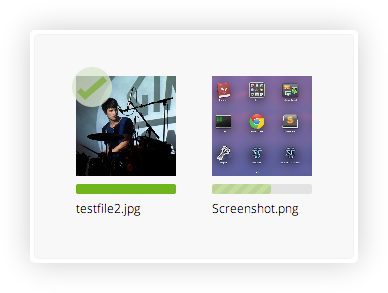
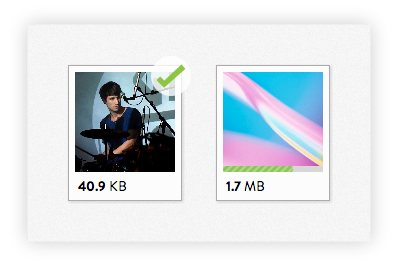
Fixed the way unsupported browsers are handled.

Changed region(s): [[0.5258, 0.2388, 0.8351, 0.7761], [0.1546, 0.209, 0.4639, 0.7761]]

diff --git a/js/build/build.js b/js/build/build.js
@@ -407,11 +407,10 @@ require.register("enyo-dropzone/lib/dropzone.js", function(exports, require, mod
   Em = typeof Emitter !== "undefined" && Emitter !== null ? Emitter : require("emitter");
 
   Dropzone = (function(_super) {
-    var defaultOptions;
 
     __extends(Dropzone, _super);
 
-    Dropzone.prototype.version = "1.3.0";
+    Dropzone.prototype.version = "1.3.2";
 
     /*
       This is a list of all available events you can register on a dropzone object.
@@ -426,7 +425,7 @@ require.register("enyo-dropzone/lib/dropzone.js", function(exports, require, mod
 
     Dropzone.prototype.blacklistedBrowsers = [/opera.*Macintosh.*version\/12/i];
 
-    defaultOptions = {
+    Dropzone.prototype.defaultOptions = {
       url: null,
       parallelUploads: 2,
       maxFilesize: 256,
@@ -499,10 +498,9 @@ require.register("enyo-dropzone/lib/dropzone.js", function(exports, require, mod
       previewTemplate: "<div class=\"preview file-preview\">\n  <div class=\"details\">\n   <div class=\"filename\"><span></span></div>\n  </div>\n  <div class=\"progress\"><span class=\"upload\"></span></div>\n  <div class=\"success-mark\"><span>✔</span></div>\n  <div class=\"error-mark\"><span>✘</span></div>\n  <div class=\"error-message\"><span></span></div>\n</div>"
     };
 
-    defaultOptions.previewTemplate = defaultOptions.previewTemplate.replace(/\n*/g, "");
-
     function Dropzone(element, options) {
       var elementId, elementOptions, extend, _ref;
+      this.defaultOptions.previewTemplate = this.defaultOptions.previewTemplate.replace(/\n*/g, "");
       this.element = o(element);
       if (this.element.length !== 1) {
         throw new Error("You can only instantiate dropzone on a single element.");
@@ -526,7 +524,7 @@ require.register("enyo-dropzone/lib/dropzone.js", function(exports, require, mod
         }
         return target;
       };
-      this.options = extend({}, defaultOptions, elementOptions, options != null ? options : {});
+      this.options = extend({}, this.defaultOptions, elementOptions, options != null ? options : {});
       if (this.options.url == null) {
         this.options.url = this.element.attr("action");
       }
@@ -11996,11 +11994,8 @@ var Dropzone = require("dropzone"),
 
 Dropzone.options.demoUpload = {
   fallback: function() {
-    this.element.addClass("browser-not-supported");
-    this.element.find(".message span").html("Your browser does not support drag'n'drop file uploads.");
-    this.element.append("<p>Sadly your dusty browser does not support nice drag'n'drop file uploads.<br />Please use the fallback form below to upload your files like in the olden days.</p>");
-    this.element.append(this.getFallbackForm());
-    this.element.append("<p>This is what your file upload should look like:<br /><img src=\"/images/preview.png\" alt=\"preview\" /></p>");
+    Dropzone.prototype.defaultOptions.fallback.call(this);
+    this.element.append("<p>This is what the file uploads with Dropzone look like in modern browsers:<br /><img src=\"/images/preview.png\" alt=\"preview\" /></p>");
   }
 };
 
@@ -12009,10 +12004,6 @@ o(function() {
   new Opentip("#opentip-demo", "Hi, I'm an Opentip", { style: "dark" });
 
   var dropzone = o("#demo-upload").data("dropzone");
-  dropzone.on("fallback", function() {
-    console.log("HI");
-    this.element.append("bla");
-  });
 });
 
 });

diff --git a/js/components/enyo-dropzone/lib/dropzone.js b/js/components/enyo-dropzone/lib/dropzone.js
@@ -38,11 +38,10 @@
   Em = typeof Emitter !== "undefined" && Emitter !== null ? Emitter : require("emitter");
 
   Dropzone = (function(_super) {
-    var defaultOptions;
 
     __extends(Dropzone, _super);
 
-    Dropzone.prototype.version = "1.3.0";
+    Dropzone.prototype.version = "1.3.2";
 
     /*
       This is a list of all available events you can register on a dropzone object.
@@ -57,7 +56,7 @@
 
     Dropzone.prototype.blacklistedBrowsers = [/opera.*Macintosh.*version\/12/i];
 
-    defaultOptions = {
+    Dropzone.prototype.defaultOptions = {
       url: null,
       parallelUploads: 2,
       maxFilesize: 256,
@@ -130,10 +129,9 @@
       previewTemplate: "<div class=\"preview file-preview\">\n  <div class=\"details\">\n   <div class=\"filename\"><span></span></div>\n  </div>\n  <div class=\"progress\"><span class=\"upload\"></span></div>\n  <div class=\"success-mark\"><span>✔</span></div>\n  <div class=\"error-mark\"><span>✘</span></div>\n  <div class=\"error-message\"><span></span></div>\n</div>"
     };
 
-    defaultOptions.previewTemplate = defaultOptions.previewTemplate.replace(/\n*/g, "");
-
     function Dropzone(element, options) {
       var elementId, elementOptions, extend, _ref;
+      this.defaultOptions.previewTemplate = this.defaultOptions.previewTemplate.replace(/\n*/g, "");
       this.element = o(element);
       if (this.element.length !== 1) {
         throw new Error("You can only instantiate dropzone on a single element.");
@@ -157,7 +155,7 @@
         }
         return target;
       };
-      this.options = extend({}, defaultOptions, elementOptions, options != null ? options : {});
+      this.options = extend({}, this.defaultOptions, elementOptions, options != null ? options : {});
       if (this.options.url == null) {
         this.options.url = this.element.attr("action");
       }

diff --git a/js/index.js b/js/index.js
@@ -5,11 +5,8 @@ var Dropzone = require("dropzone"),
 
 Dropzone.options.demoUpload = {
   fallback: function() {
-    this.element.addClass("browser-not-supported");
-    this.element.find(".message span").html("Your browser does not support drag'n'drop file uploads.");
-    this.element.append("<p>Sadly your dusty browser does not support nice drag'n'drop file uploads.<br />Please use the fallback form below to upload your files like in the olden days.</p>");
-    this.element.append(this.getFallbackForm());
-    this.element.append("<p>This is what your file upload should look like:<br /><img src=\"/images/preview.png\" alt=\"preview\" /></p>");
+    Dropzone.prototype.defaultOptions.fallback.call(this);
+    this.element.append("<p>This is what the file uploads with Dropzone look like in modern browsers:<br /><img src=\"/images/preview.png\" alt=\"preview\" /></p>");
   }
 };
 
@@ -18,8 +15,4 @@ o(function() {
   new Opentip("#opentip-demo", "Hi, I'm an Opentip", { style: "dark" });
 
   var dropzone = o("#demo-upload").data("dropzone");
-  dropzone.on("fallback", function() {
-    console.log("HI");
-    this.element.append("bla");
-  });
 });

diff --git a/_layouts/default.html b/_layouts/default.html
@@ -17,9 +17,9 @@
   <meta name="description" value="Dropzone is an open source library that provides beautiful and easy to use drag'n'drop file uploads." />
   <meta name="keywords" value="ender javascript dragndrop drag and drop drag'n'drop file upload image preview coffeescript" />
 
-  <link rel="stylesheet" href="css/general.css?v=6" />
+  <link rel="stylesheet" href="css/general.css?v=7" />
 
-  <script src="js/build/build.js?v=3"></script>
+  <script src="js/build/build.js?v=4"></script>
   <script>
     require("boot");
   </script>

diff --git a/css/general.css b/css/general.css
@@ -897,7 +897,6 @@ h1#project {
   border-radius: 3px;
   background: rgba(0,0,0,0.03);
   padding: 23px;
-  font-size: 14px;
 }
 .dropzone .default.message {
   opacity: 1;
@@ -951,6 +950,7 @@ h1#project {
 .dropzone .preview {
   -webkit-box-shadow: 1px 1px 4px rgba(0,0,0,0.16);
   box-shadow: 1px 1px 4px rgba(0,0,0,0.16);
+  font-size: 14px;
 }
 .dropzone .preview .details img {
   width: 100px;
